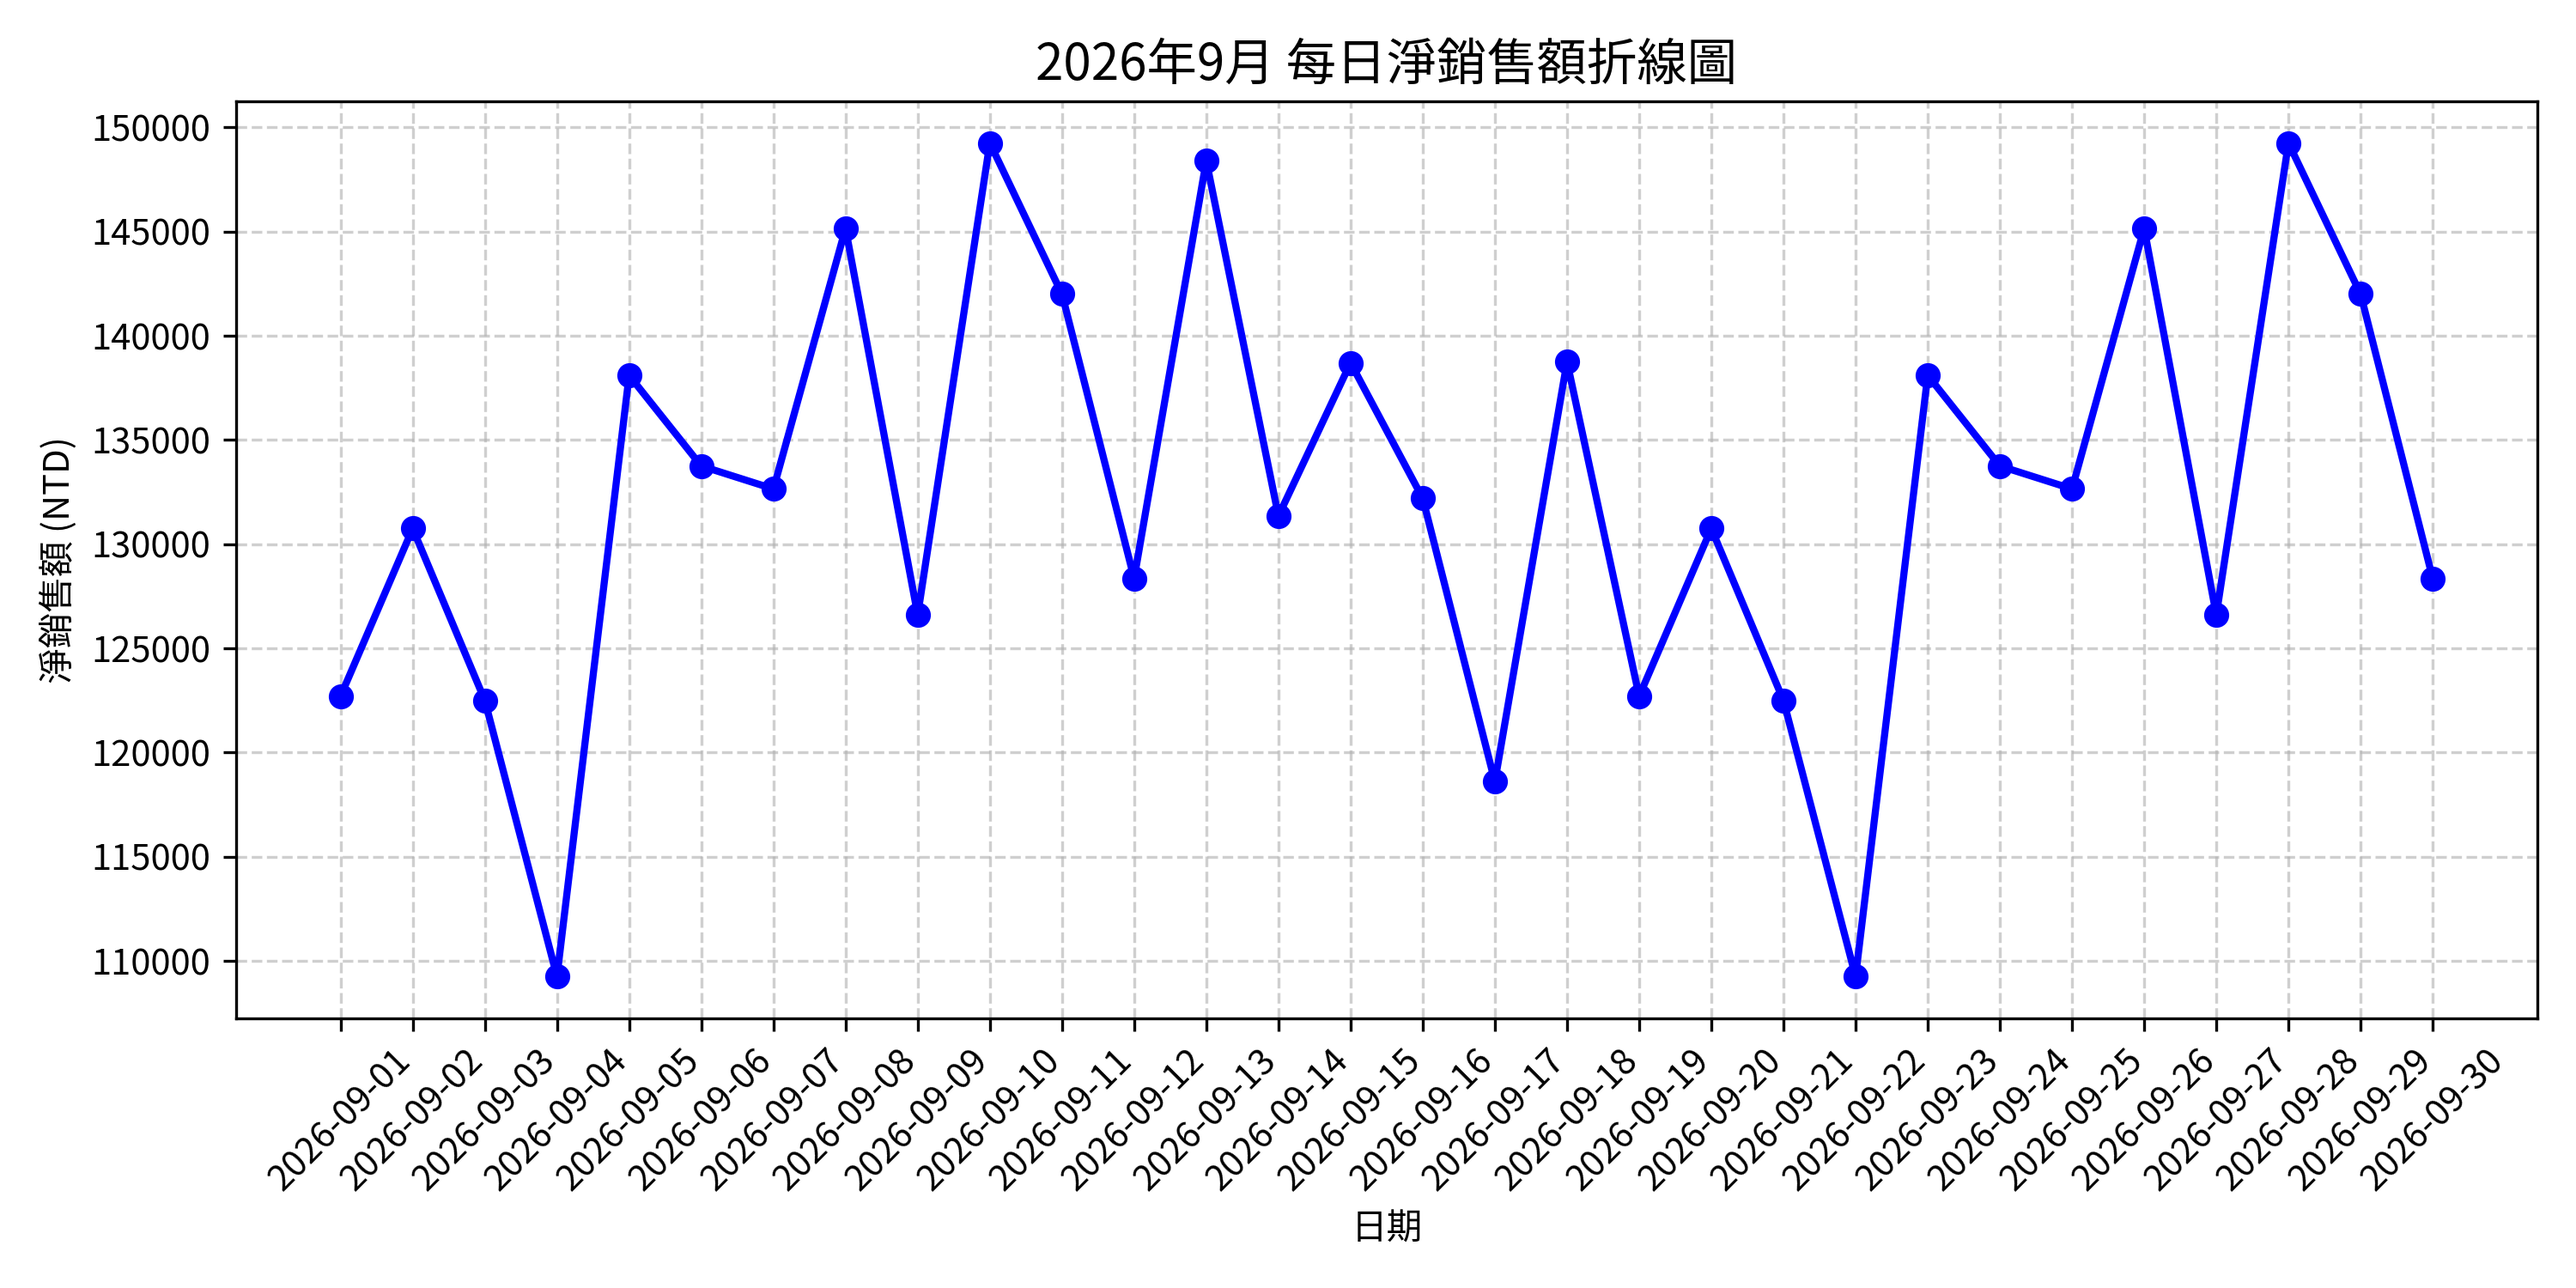
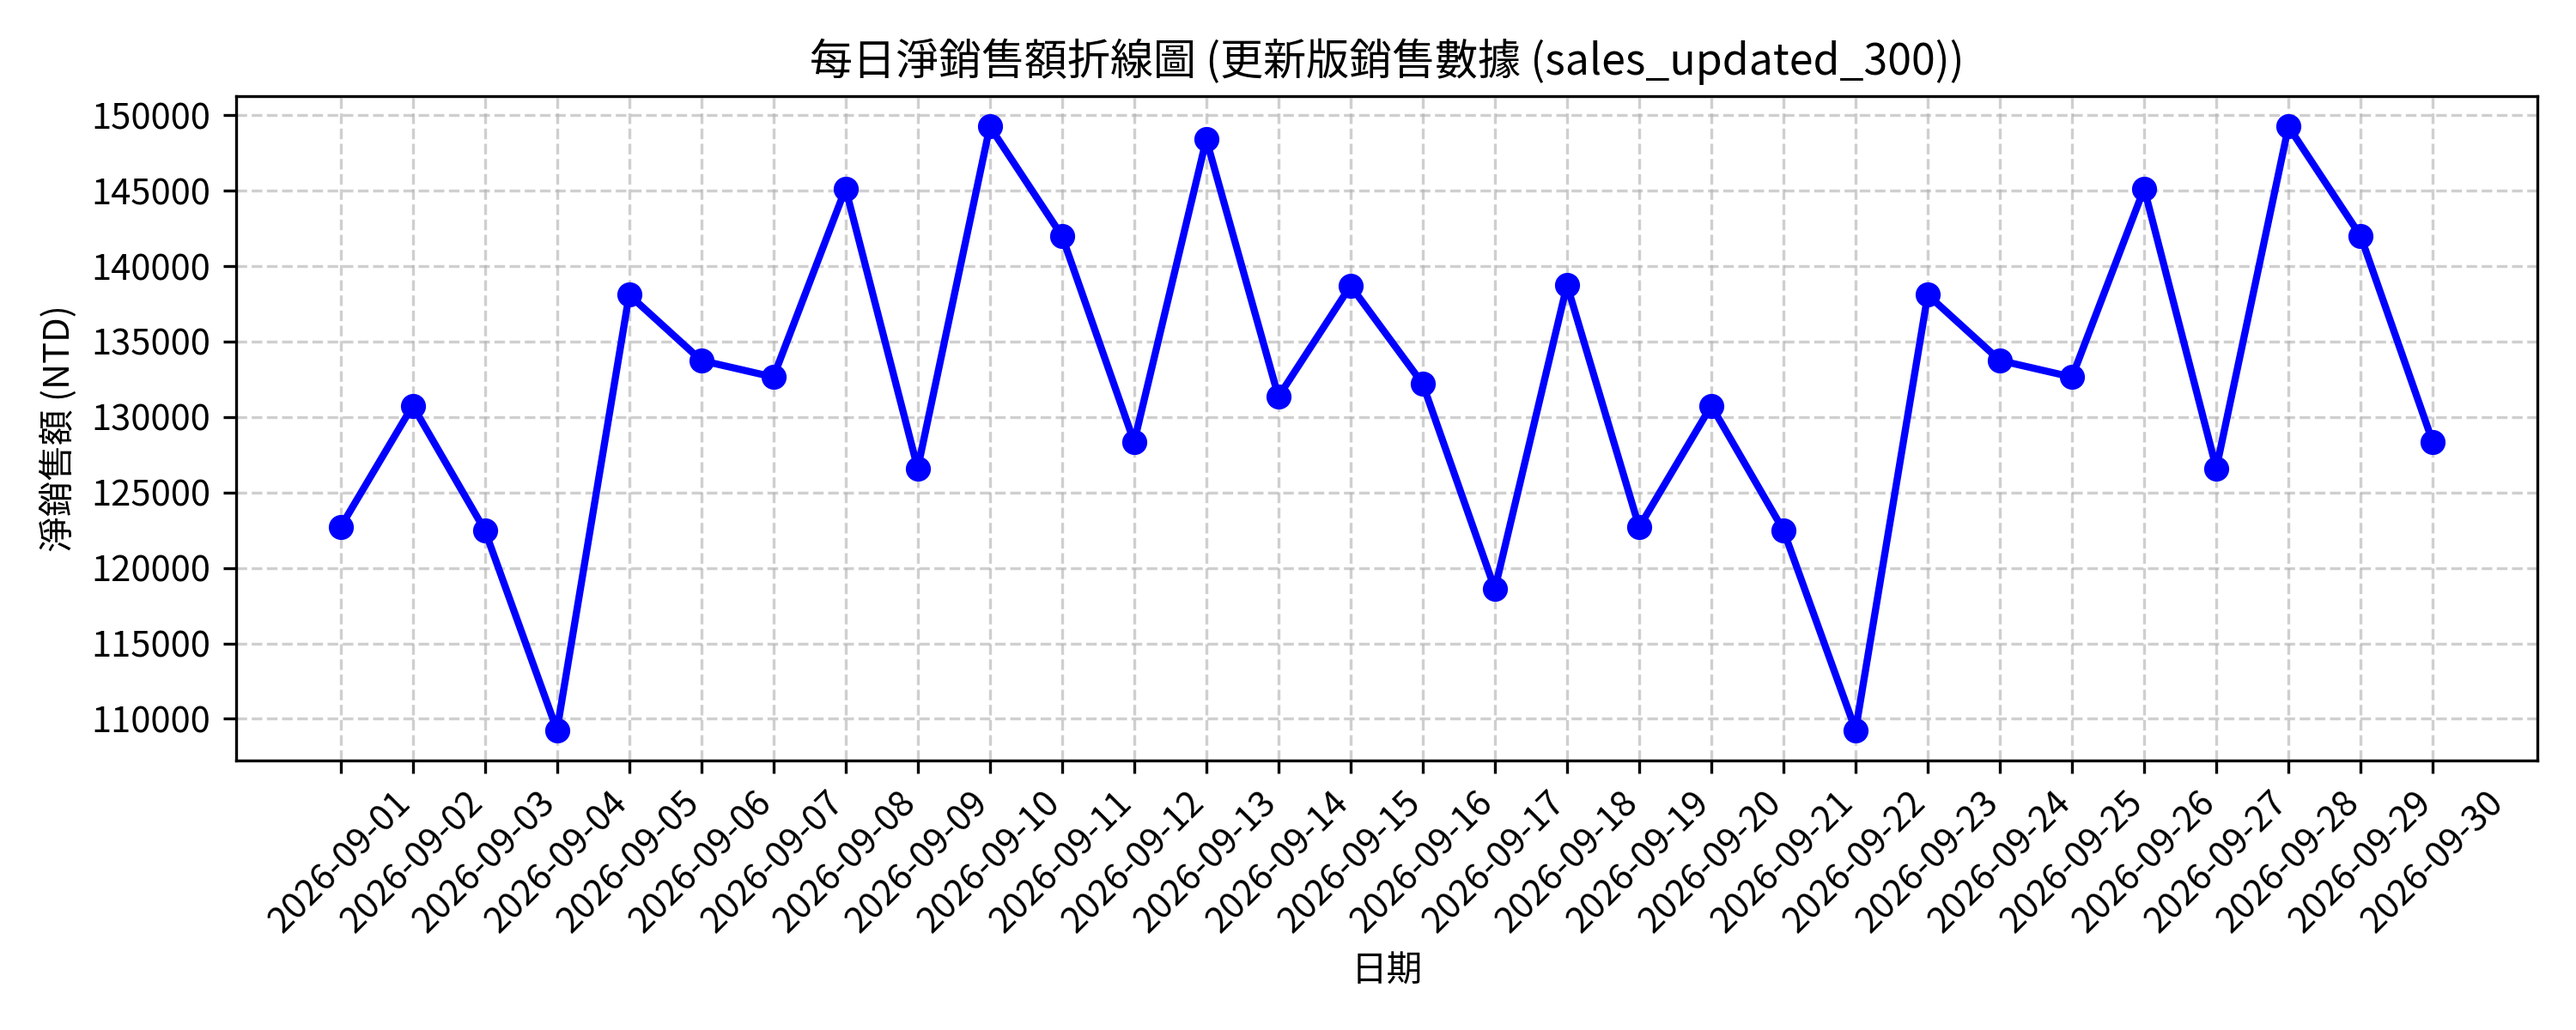
chore: auto-generate charts and index.html via GitHub Actions

diff --git a/index.html b/index.html
@@ -2,102 +2,31 @@
 <html lang="zh-Hant">
 <head>
     <meta charset="UTF-8">
-    <meta name="viewport" content="width=device-width, initial-scale=1.0">
-    <title>智慧通勤與數據儀表板</title>
-    <!-- 引入 Bootstrap 5 CSS 確保 RWD 手機/電腦排版完美適應 -->
-    <link href="https://cdn.jsdelivr.net/npm/bootstrap@5.3.0/dist/css/bootstrap.min.css" rel="stylesheet">
-    <!-- 引入 Chart.js 供未來 MySQL 數據圖表使用 -->
-    <script src="https://cdn.jsdelivr.net/npm/chart.js"></script>
+    <title>銷售數據分析儀表板</title>
+    <style>
+        body { font-family: 'Noto Sans CJK JP', Arial, sans-serif; margin: 40px; background-color: #f9f9f9; color: #333; text-align: center; }
+        h1 { color: #2c3e50; }
+        .badge { background-color: #3498db; color: white; padding: 6px 12px; border-radius: 4px; font-size: 14px; }
+        .chart-container { margin: 30px auto; background: white; padding: 20px; border-radius: 8px; box-shadow: 0 4px 6px rgba(0,0,0,0.1); display: inline-block; }
+        img { max-width: 100%; height: auto; border-radius: 4px; }
+    </style>
 </head>
-<body class="bg-light">
-
-    <!-- 導覽列 (RWD 響應式) -->
-    <nav class="navbar navbar-expand-lg navbar-dark bg-dark">
-        <div class="container">
-            <a class="navbar-brand" href="#">📊 數據儀表板與最新消息</a>
-            <button class="navbar-toggler" type="button" data-bs-toggle="collapse" data-bs-target="#navbarNav">
-                <span class="navbar-toggler-icon"></span>
-            </button>
-            <div class="collapse navbar-collapse" id="navbarNav">
-                <ul class="navbar-nav ms-auto">
-                    <li class="nav-item"><a class="navbar-link text-white text-decoration-none px-3" href="#news">最新消息</a></li>
-                    <li class="nav-item"><a class="navbar-link text-white text-decoration-none px-3" href="#charts">資料庫圖表</a></li>
-                </ul>
-            </div>
-        </div>
-    </nav>
-
-    <!-- 主要內容區塊 -->
-    <div class="container my-5">
-        
-        <!-- 1. 最新消息區塊 -->
-        <section id="news" class="mb-5">
-            <div class="card shadow-sm">
-                <div class="card-header bg-primary text-white">
-                    <h3 class="card-title h5 mb-0">🔥 最新消息 (Latest News)</h3>
-                </div>
-                <div class="card-body">
-                    <ul class="list-group list-group-flush">
-                        <li class="list-group-item d-flex justify-content-between align-items-center">
-                            <span>🚀 系統已成功透過 GitHub Pages 完成部署上線！</span>
-                            <span class="badge bg-secondary">2026-09-21</span>
-                        </li>
-                        <li class="list-group-item d-flex justify-content-between align-items-center">
-                            <span>📈 準備對接 MySQL 資料庫，動態載入後端數據。</span>
-                            <span class="badge bg-secondary">開發中</span>
-                        </li>
-                    </ul>
-                </div>
-            </div>
-        </section>
-
-        <!-- 2. 未來連接 MySQL 資料庫圖表區塊 -->
-        <section id="charts">
-            <div class="card shadow-sm">
-                <div class="card-header bg-success text-white">
-                    <h3 class="card-title h5 mb-0">📊 MySQL 資料庫數據圖表預覽</h3>
-                </div>
-                <div class="card-body">
-                    <p class="text-muted">此圖表未來可透過 AJAX / Fetch API 連接後端 PHP/Node.js，將 MySQL 資料庫中的數據動態呈現在此：</p>
-                    <!-- RWD 畫布容器 -->
-                    <div class="chart-container" style="position: relative; height:350vh; max-height:400px;">
-                        <canvas id="myDatabaseChart"></canvas>
-                    </div>
-                </div>
-            </div>
-        </section>
-
+<body>
+    <h1>銷售數據分析儀表板</h1>
+    <p>目前展示資料來源：<span class="badge">更新版銷售數據 (sales_updated_300)</span></p>
+    <p>提示：按下 F5 重新整理即可載入最新圖表。</p>
+    
+    <div class="chart-container">
+        <h3>1. 每日淨銷售額折線圖</h3>
+        <img src="chart_1_daily_revenue.png" alt="每日淨銷售額">
     </div>
-
-    <!-- 頁尾 -->
-    <footer class="text-center py-4 text-muted">
-        <p>&copy; 2026 Smart Commute & RWD Dashboard System.</p>
-    </footer>
-
-    <!-- Bootstrap JS Bundle -->
-    <script src="https://cdn.jsdelivr.net/npm/bootstrap@5.3.0/dist/js/bootstrap.bundle.min.js"></script>
-
-    <!-- 圖表初始化腳本 (Chart.js) -->
-    <script>
-        // 模擬從 MySQL 撈取並透過 API 傳遞過來的資料
-        const ctx = document.getElementById('myDatabaseChart').getContext('2d');
-        const myChart = new Chart(ctx, {
-            type: 'bar', // 可自由更換為 'line' (折線圖), 'pie' (圓餅圖) 等
-            data: {
-                labels: ['一月', '二月', '三月', '四月', '五月', '六月'],
-                datasets: [{
-                    label: 'MySQL 資料庫模擬數據 (例如：每月通勤次數)',
-                    data: [12, 19, 3, 5, 2, 3],
-                    backgroundColor: 'rgba(54, 162, 235, 0.5)',
-                    borderColor: 'rgba(54, 162, 235, 1)',
-                    borderWidth: 1
-                }]
-            },
-            options: {
-                responsive: true,
-                maintainAspectRatio: false
-            }
-        });
-    </script>
+    <div class="chart-container">
+        <h3>2. 各商品淨銷售額長條圖</h3>
+        <img src="chart_2_product_revenue.png" alt="各商品淨銷售額">
+    </div>
+    <div class="chart-container">
+        <h3>3. 各分類淨銷售額占比圓餅圖</h3>
+        <img src="chart_3_category_share.png" alt="各分類淨銷售額占比">
+    </div>
 </body>
 </html>
